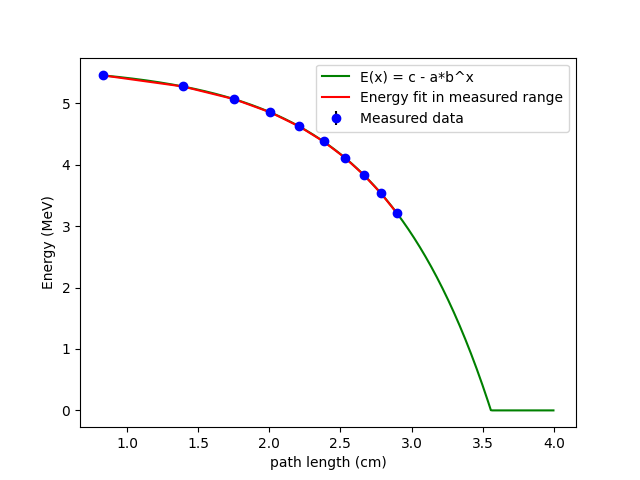
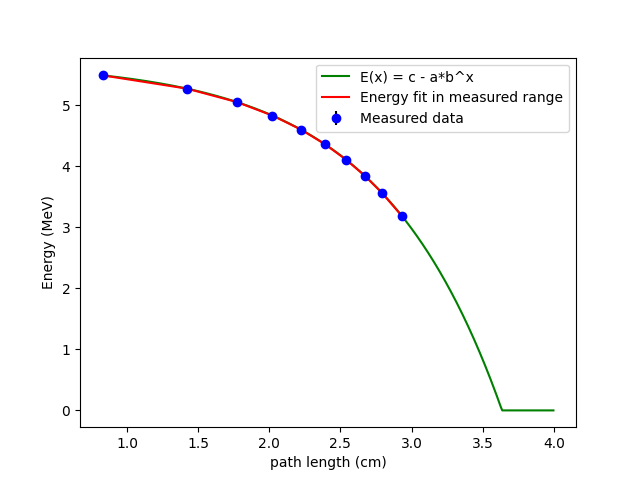
added start and end pressure to calculate mean and uncertainty

diff --git a/src/alpha/alpha_ray.py b/src/alpha/alpha_ray.py
@@ -278,48 +278,48 @@ def measurement_air():
     """runs the experiment with different pressures in air
     """
 
-    meas1_air_low_list = [20, 99, 199, 299, 399, 499, 599, 699, 799, 899]
-    meas1_air_high_list = [22, 114, 213, 314, 415, 515, 614, 714, 814, 971]
+    air_start_list = [20, 99, 199, 299, 399, 499, 599, 699, 799, 899]
+    air_end_list = [22, 114, 213, 314, 415, 515, 614, 714, 814, 971]
 
-    meas1_vacuum = Measurement("alfa bron 21 mbar.csv", end_point=1000, pressure = 21)
+    meas1_vacuum = Measurement("alfa bron 21 mbar.csv", end_point=1000, pressure_start = air_start_list[0], pressure_end=air_end_list[0])
     meas1_vacuum.data_fit(start_expmu=0.05, start_gauss1_mu=0.2)
     # meas1_vacuum.plot_fit()
 
-    meas1_air_100mbar = Measurement("alfa bron lucht 100 mbar.csv", end_point=1000, pressure_start = 100)
-    meas1_air_100mbar.data_fit(start_expmu=0.05, start_gauss1_mu=0.18)
-    # meas1_air_100mbar.plot_fit()
+    air_100mbar = Measurement("alfa bron lucht 100 mbar.csv", end_point=1000, pressure_start = air_start_list[1], pressure_end=air_end_list[1])
+    air_100mbar.data_fit(start_expmu=0.05, start_gauss1_mu=0.18)
+    # air_100mbar.plot_fit()
 
-    meas1_air_200mbar = Measurement("alfa bron lucht 200 mbar.csv", end_point=1000, pressure_start = 200)
-    meas1_air_200mbar.data_fit(start_expmu=0.05, start_gauss1_mu=0.2)
-    # meas1_air_200mbar.plot_fit()
+    air_200mbar = Measurement("alfa bron lucht 200 mbar.csv", end_point=1000, pressure_start = air_start_list[2], pressure_end=air_end_list[2])
+    air_200mbar.data_fit(start_expmu=0.05, start_gauss1_mu=0.2)
+    # air_200mbar.plot_fit()
 
-    meas1_air_300mbar = Measurement("alfa bron lucht 300 mbar.csv", end_point=1000, pressure_start = 300)
-    meas1_air_300mbar.data_fit(start_expmu=0.05, start_gauss1_mu=0.18)
-    # meas1_air_300mbar.plot_fit()
+    air_300mbar = Measurement("alfa bron lucht 300 mbar.csv", end_point=1000, pressure_start = air_start_list[3], pressure_end=air_end_list[3])
+    air_300mbar.data_fit(start_expmu=0.05, start_gauss1_mu=0.18)
+    # air_300mbar.plot_fit()
 
-    meas1_air_400mbar = Measurement("alfa bron lucht 400 mbar.csv", end_point=1000, pressure_start = 400)
-    meas1_air_400mbar.data_fit(start_expmu=0.025, start_gauss1_mu=0.17)
-    # meas1_air_400mbar.plot_fit()
+    air_400mbar = Measurement("alfa bron lucht 400 mbar.csv", end_point=1000, pressure_start = air_start_list[4], pressure_end=air_end_list[4])
+    air_400mbar.data_fit(start_expmu=0.025, start_gauss1_mu=0.17)
+    # air_400mbar.plot_fit()
 
-    meas1_air_500mbar = Measurement("alfa bron lucht 500 mbar.csv", end_point=1000, pressure_start = 500)
-    meas1_air_500mbar.data_fit(start_expmu=0.025, start_gauss1_mu=0.16)
-    # meas1_air_500mbar.plot_fit()
+    air_500mbar = Measurement("alfa bron lucht 500 mbar.csv", end_point=1000, pressure_start = air_start_list[5], pressure_end=air_end_list[5])
+    air_500mbar.data_fit(start_expmu=0.025, start_gauss1_mu=0.16)
+    # air_500mbar.plot_fit()
 
-    meas1_air_600mbar = Measurement("alfa bron lucht 600 mbar.csv", end_point=1000, pressure_start = 600)
-    meas1_air_600mbar.data_fit(start_expmu=0.05, start_gauss1_mu=0.14)
-    # meas1_air_600mbar.plot_fit()
+    air_600mbar = Measurement("alfa bron lucht 600 mbar.csv", end_point=1000, pressure_start = air_start_list[6], pressure_end=air_end_list[6])
+    air_600mbar.data_fit(start_expmu=0.05, start_gauss1_mu=0.14)
+    # air_600mbar.plot_fit()
 
-    meas1_air_700mbar = Measurement("alfa bron lucht 700 mbar.csv", end_point=1000, pressure_start = 700)
-    meas1_air_700mbar.data_fit(start_expmu=0.05, start_gauss1_mu=0.13)
-    # meas1_air_700mbar.plot_fit()
+    air_700mbar = Measurement("alfa bron lucht 700 mbar.csv", end_point=1000, pressure_start = air_start_list[7], pressure_end=air_end_list[7])
+    air_700mbar.data_fit(start_expmu=0.05, start_gauss1_mu=0.13)
+    # air_700mbar.plot_fit()
 
-    meas1_air_800mbar = Measurement("alfa bron lucht 800 mbar.csv", end_point=1000, pressure_start = 800)
-    meas1_air_800mbar.data_fit(start_expmu=0.05, start_gauss1_mu=0.12)
-    # meas1_air_800mbar.plot_fit()
+    air_800mbar = Measurement("alfa bron lucht 800 mbar.csv", end_point=1000, pressure_start = air_start_list[8], pressure_end=air_end_list[8])
+    air_800mbar.data_fit(start_expmu=0.05, start_gauss1_mu=0.12)
+    # air_800mbar.plot_fit()
 
-    meas1_air_900mbar = Measurement("alfa bron lucht 900 mbar.csv", end_point=1000, pressure_start = 900)
-    meas1_air_900mbar.data_fit(start_expmu=0.022, start_gauss1_mu=0.12)
-    # meas1_air_900mbar.plot_fit()
+    air_900mbar = Measurement("alfa bron lucht 900 mbar.csv", end_point=1000, pressure_start = air_start_list[9], pressure_end=air_end_list[9])
+    air_900mbar.data_fit(start_expmu=0.022, start_gauss1_mu=0.12)
+    # air_900mbar.plot_fit()
 
     Measurement.energy_fit()
     Measurement.energy_plot()
@@ -330,38 +330,38 @@ def measurement_argon():
     """runs the experiment with different pressures in argon
     """
 
-    argon_low_list = [20, 98, 199, 299, 399, 499, 599, 699]
-    argon_high_list = [22, 117, 215, 317, 417, 526, 627, 727]
+    argon_start_list = [20, 98, 199, 299, 399, 499, 599, 699]
+    argon_end_list = [22, 117, 215, 317, 417, 526, 627, 727]
 
-    argon_vacuum = Measurement("alfa bron argon 21 mbar.csv", end_point=1000, pressure = 21)
+    argon_vacuum = Measurement("alfa bron argon 21 mbar.csv", end_point=1000, pressure_start = argon_start_list[0], pressure_end=argon_end_list[0])
     argon_vacuum.data_fit(start_expmu=0.05, start_gauss1_mu=0.2)
     # argon_vacuum.plot_fit()
 
-    argon_100mbar = Measurement("alfa bron argon 100 mbar.csv", end_point=1000, pressure = 100)
+    argon_100mbar = Measurement("alfa bron argon 100 mbar.csv", end_point=1000, pressure_start = argon_start_list[1], pressure_end=argon_end_list[1])
     argon_100mbar.data_fit(start_expmu=0.05, start_gauss1_mu=0.18)
     # argon_100mbar.plot_fit()
 
-    argon_200mbar = Measurement("alfa bron argon 200 mbar.csv", end_point=1000, pressure = 200)
+    argon_200mbar = Measurement("alfa bron argon 200 mbar.csv", end_point=1000, pressure_start = argon_start_list[2], pressure_end=argon_end_list[2])
     argon_200mbar.data_fit(start_expmu=0.05, start_gauss1_mu=0.2)
     # argon_200mbar.plot_fit()
 
-    argon_300mbar = Measurement("alfa bron argon 300 mbar.csv", end_point=1000, pressure = 300)
+    argon_300mbar = Measurement("alfa bron argon 300 mbar.csv", end_point=1000, pressure_start = argon_start_list[3], pressure_end=argon_end_list[3])
     argon_300mbar.data_fit(start_expmu=0.05, start_gauss1_mu=0.18)
     # argon_300mbar.plot_fit()
 
-    argon_400mbar = Measurement("alfa bron argon 400 mbar.csv", end_point=1000, pressure = 400)
+    argon_400mbar = Measurement("alfa bron argon 400 mbar.csv", end_point=1000, pressure_start = argon_start_list[4], pressure_end=argon_end_list[4])
     argon_400mbar.data_fit(start_expmu=0.025, start_gauss1_mu=0.17)
     # argon_400mbar.plot_fit()
 
-    argon_500mbar = Measurement("alfa bron argon 500 mbar.csv", end_point=1000, pressure = 500)
+    argon_500mbar = Measurement("alfa bron argon 500 mbar.csv", end_point=1000, pressure_start = argon_start_list[5], pressure_end=argon_end_list[5])
     argon_500mbar.data_fit(start_expmu=0.025, start_gauss1_mu=0.16)
     # argon_500mbar.plot_fit()
 
-    argon_600mbar = Measurement("alfa bron argon 600 mbar.csv", end_point=1000, pressure = 600)
+    argon_600mbar = Measurement("alfa bron argon 600 mbar.csv", end_point=1000, pressure_start = argon_start_list[6], pressure_end=argon_end_list[6])
     argon_600mbar.data_fit(start_expmu=0.05, start_gauss1_mu=0.14)
     # argon_600mbar.plot_fit()
 
-    argon_700mbar = Measurement("alfa bron argon 700 mbar.csv", end_point=1000, pressure = 700)
+    argon_700mbar = Measurement("alfa bron argon 700 mbar.csv", end_point=1000, pressure_start = argon_start_list[7], pressure_end=argon_end_list[7])
     argon_700mbar.data_fit(start_expmu=0.05, start_gauss1_mu=0.13)
     # argon_700mbar.plot_fit()
 
